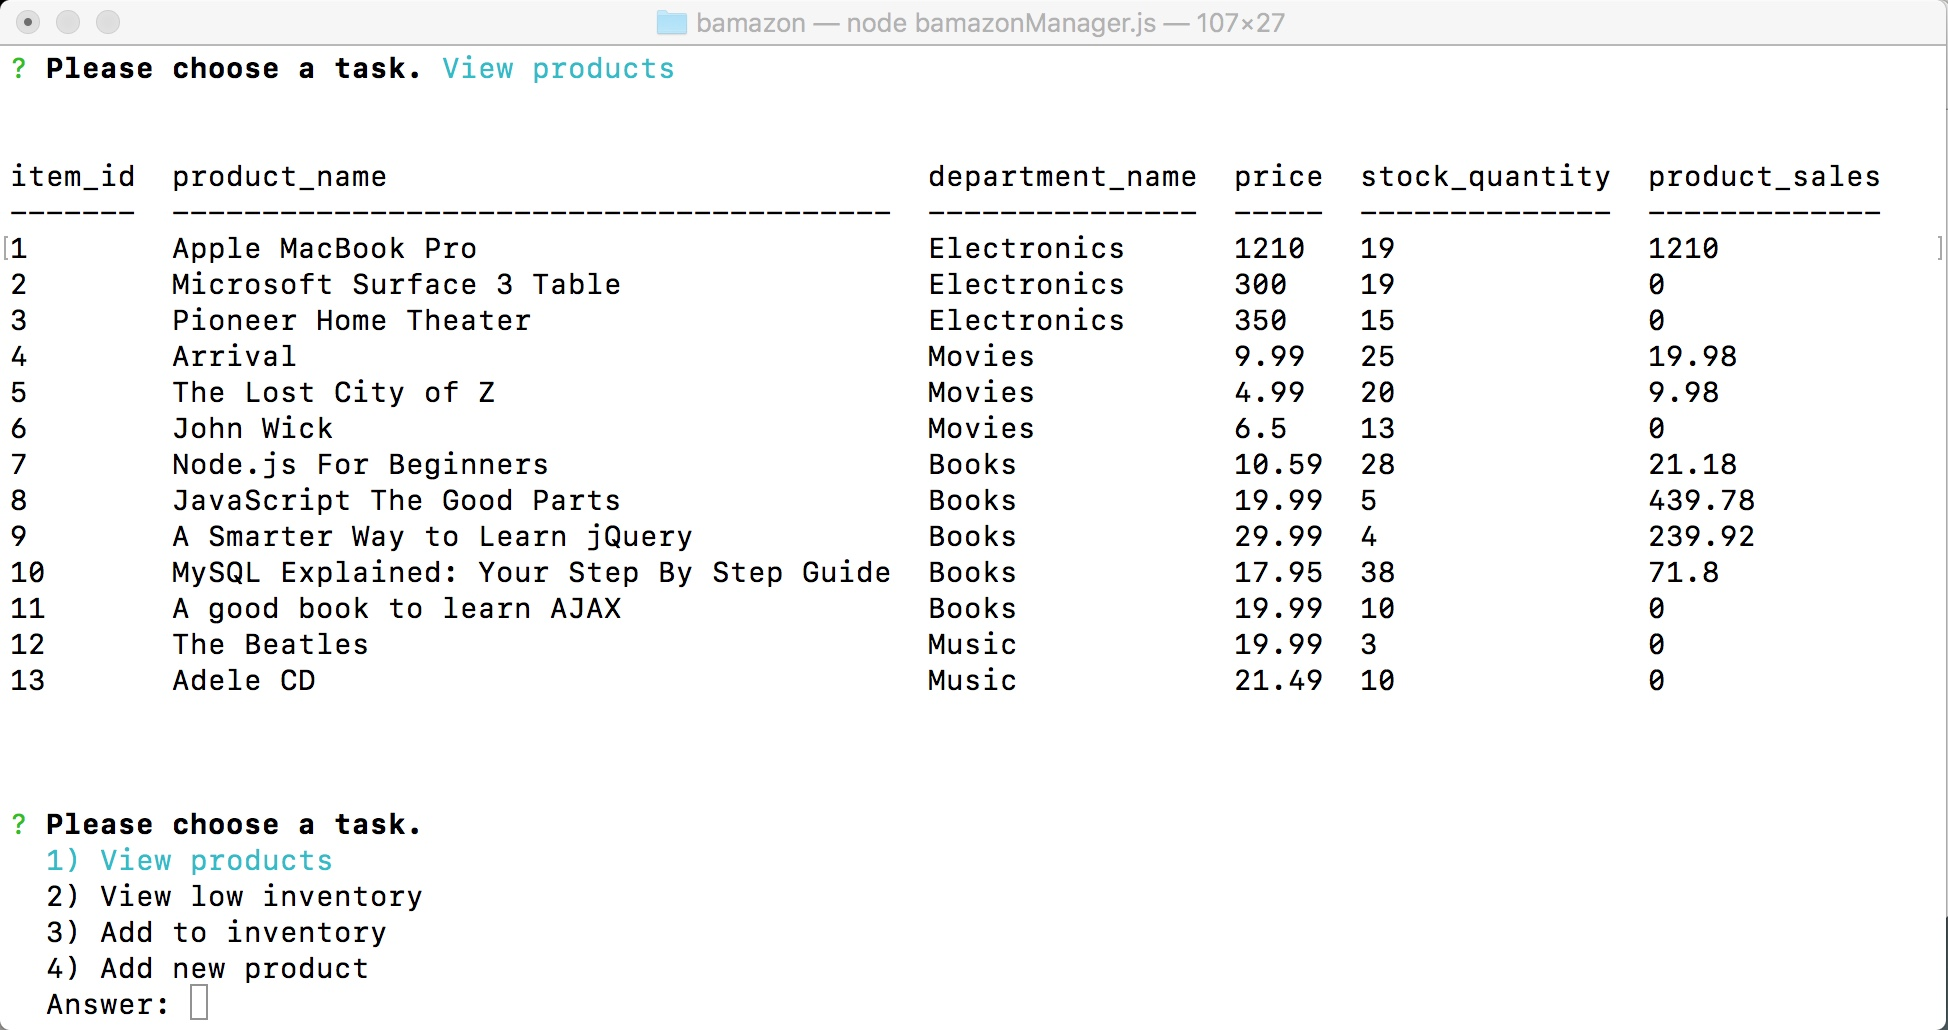
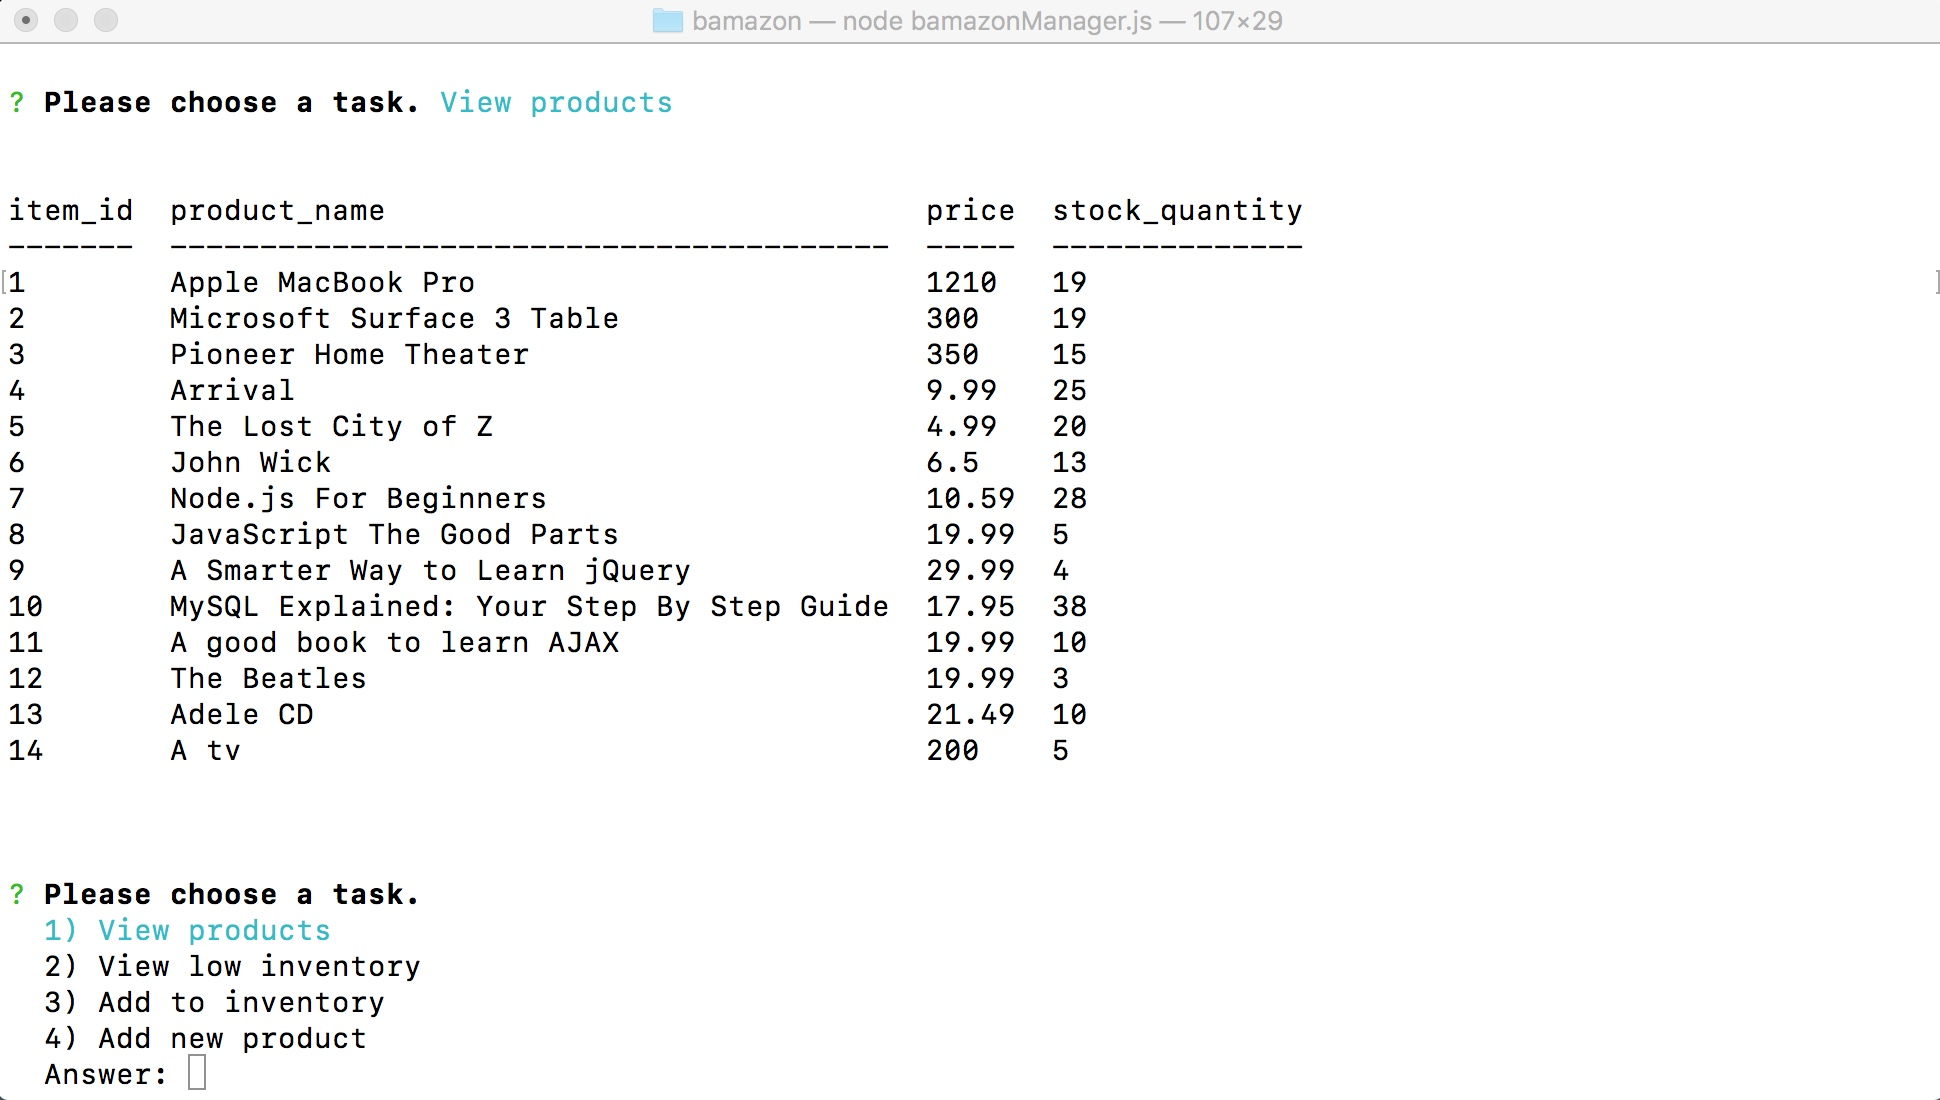
fix bug

diff --git a/bamazonManager.js b/bamazonManager.js
@@ -41,9 +41,7 @@ function start(){
 
 //Display every available item
 function viewProducts(){
-	var query = 'SELECT item_id, product_name, department_name, price, stock_quantity, product_sales ';
-		query += 'FROM products LEFT JOIN departments ON products.department_id = ';
-		query += 'departments.department_id';
+	var query = 'SELECT item_id, product_name, price, stock_quantity FROM products';
 
 	connection.query(query, function(err, results){
 		if(err) throw err;
